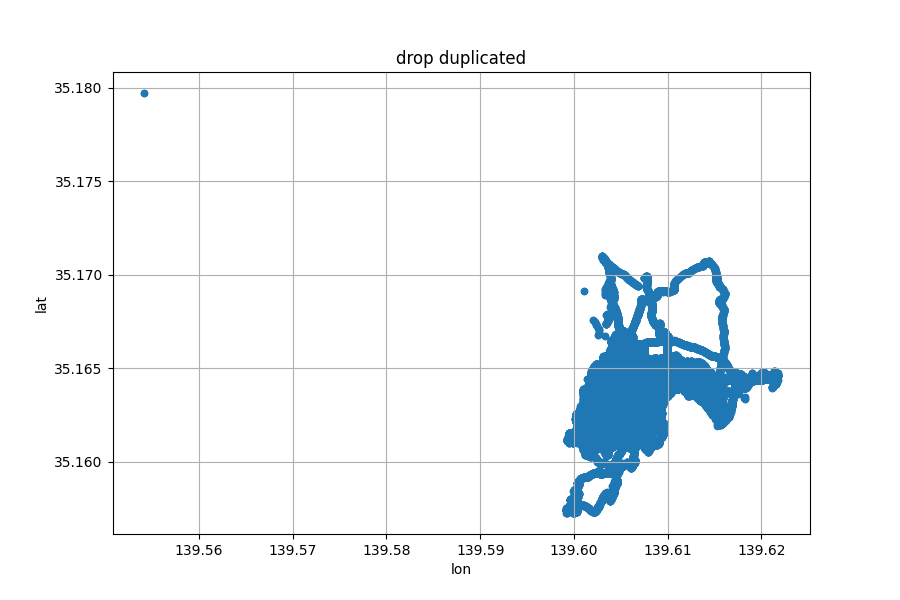
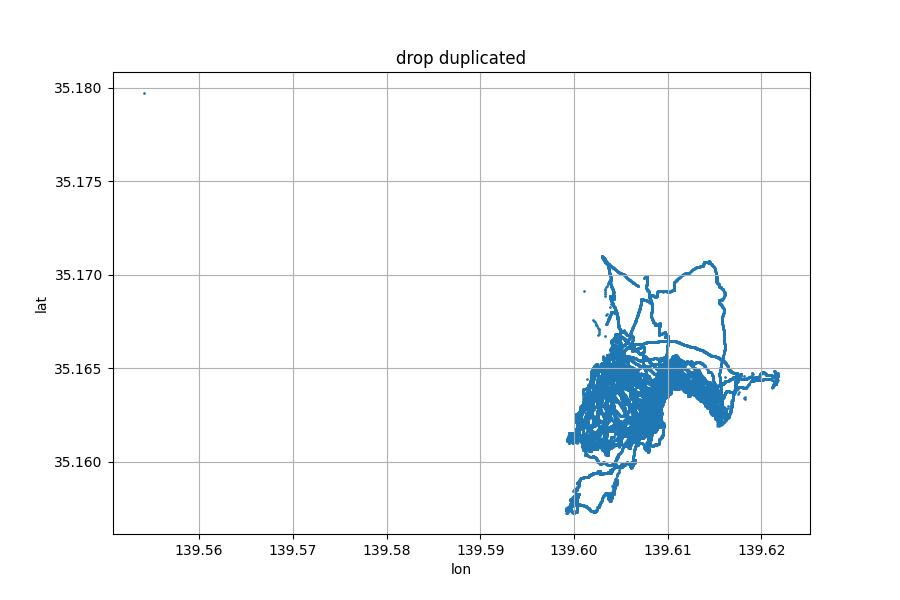
20220826

Changed region(s): [[0.6222, 0.42, 0.8711, 0.87], [0.6222, 0.63, 0.6844, 0.75], [0.1556, 0.15, 0.1867, 0.18]]

diff --git a/main.py b/main.py
@@ -11,6 +11,7 @@ __date__ = "2022/08/19"
 #
 # 標準ライブラリのインポート
 #
+import io
 import logging
 import math
 import os
@@ -98,6 +99,8 @@ try:
     import numpy as np
     import pandas as pd
     import matplotlib.pyplot as plt
+    from mpl_toolkits.mplot3d import Axes3D
+    from scipy.interpolate import RBFInterpolator
     from sklearn.neighbors import LocalOutlierFactor  # process_outlier()
     from sklearn.ensemble import IsolationForest  # process_outlier()
 except ImportError as e:
@@ -120,24 +123,43 @@ FIG_SIZE = (9, 6)
 
 class Stats:
     def __init__(self, df: pd.DataFrame) -> None:
+        self.mean_lat = df["lat"].mean()
         self.min_lat = df["lat"].min()
         self.max_lat = df["lat"].max()
         self.min_lon = df["lon"].min()
         self.max_lon = df["lon"].max()
-        self.max_depth = df["depth"].max()
+        #self.min_depth = df["depth"].min()
+        #self.max_depth = df["depth"].max()
+
+        # この場所で地球を水平(holizontal)に輪切りにしたときの半径(m)と円の長さ
+        h_r = EARTH_RADIUS * 1000 * math.cos(degree2radian(self.mean_lat))
+        h_circle = 2 * math.pi * h_r
+
+        # この円において弧の長さが1mになる角度、つまり経度の差
+        self.lon_unit = 360 / h_circle
+
+        # 地球を北極から南極に縦に輪切りにしたときの円周(m)
+        v_circle = 2 * math.pi * EARTH_RADIUS * 1000
+
+        # この円において弧の長さが1mになる角度、つまり経度の差
+        self.lat_unit = 360 / v_circle
 
         # 南北方向の距離(m)
         self.distance_south_north = 2 * math.pi * EARTH_RADIUS * 1000 * (self.max_lat - self.min_lat) / 360
         self.distance_south_north = math.floor(self.distance_south_north)
 
         # 東西方向の距離(m)
-        radius = EARTH_RADIUS * 1000 * math.cos(degree2radian(self.min_lat))
-        self.distance_west_east = 2 * math.pi * radius * (self.max_lon - self.min_lon) / 360
+        self.distance_west_east = h_circle * (self.max_lon - self.min_lon) / 360
         self.distance_west_east = math.floor(self.distance_west_east)
 
-        # グリッド単位
-        self.grid_lon = (self.max_lon - self.min_lon) / (self.distance_west_east / GRID_UNIT)
-        self.grid_lat = (self.max_lat - self.min_lat) / (self.distance_south_north / GRID_UNIT)
+    def __str__(self) -> str:
+        with io.StringIO() as s:
+            print("lat unit: {}".format(self.lat_unit), file=s)
+            print("lon unit: {}".format(self.lon_unit), file=s)
+            print("south-north distance (m): {}".format(self.distance_south_north), file=s)
+            print("west-east distance (m): {}".format(self.distance_west_east), file=s)
+            print("", file=s)
+            return s.getvalue()
 
 
 def degree2radian(degree: float) -> float:
@@ -150,6 +172,93 @@ def round_unit(x: float, unit: float) -> float:
 
 
 if __name__ == '__main__':
+
+    def rbf_example():
+        from scipy.stats.qmc import Halton
+        rng = np.random.default_rng()
+        xobs = 2*Halton(2, seed=rng).random(100) - 1
+        yobs = np.sum(xobs, axis=1)*np.exp(-6*np.sum(xobs**2, axis=1))
+        xgrid = np.mgrid[-1:1:50j, -1:1:50j]
+        xflat = xgrid.reshape(2, -1).T
+
+        print(xgrid)
+
+        yflat = RBFInterpolator(xobs, yobs)(xflat)
+
+        ygrid = yflat.reshape(50, 50)
+        fig, ax = plt.subplots()
+        ax.pcolormesh(*xgrid, ygrid, vmin=-0.25, vmax=0.25, shading='gouraud')
+        p = ax.scatter(*xobs.T, c=yobs, s=50, ec='k', vmin=-0.25, vmax=0.25)
+        fig.colorbar(p)
+        plt.savefig("3d.png")
+
+
+    def generate_test_grid(df:pd.DataFrame):
+        # テスト用座標
+        TEST_COORD_NW = (35.1636, 139.6082)
+        TEST_COORD_SE = (35.1622, 139.6099)
+
+        extracted = df.query("lat > {} and lat < {} and lon > {} and lon < {}".format(TEST_COORD_SE[0], TEST_COORD_NW[0], TEST_COORD_NW[1], TEST_COORD_SE[1]))
+        lat = extracted["lat"]
+        lat = (lat - lat.mean())/lat.std()
+        lon = extracted["lon"]
+        lon = (lon - lon.mean())/lon.std()
+        depth = extracted["depth"]
+        lat_lon = np.stack([lat, lon], -1)
+        rbf = RBFInterpolator(lat_lon, depth, kernel='thin_plate_spline', epsilon=2.0, neighbors=10)
+
+
+        # RBF補間を作成
+        # https://docs.scipy.org/doc/scipy/reference/generated/scipy.interpolate.RBFInterpolator.html#scipy.interpolate.RBFInterpolator
+        # rbf = RBFInterpolator(extracted[["lat", "lon"]], extracted["depth"], kernel='gaussian', epsilon=1.0, neighbors=1000)
+
+        """
+        linear : -r
+        thin_plate_spline : r**2 * log(r)
+        cubic : r**3
+        quintic : -r**5
+        multiquadric : -sqrt(1 + r**2)
+        inverse_multiquadric : 1/sqrt(1 + r**2)
+        inverse_quadratic : 1/(1 + r**2)
+        gaussian : exp(-r**2)
+
+        Default is 'thin_plate_spline'
+        """
+
+        # x, yの各軸に関して、等間隔の配列を作成する
+        xi = np.linspace(lon.min(), lon.max(), 100)
+        yi = np.linspace(lat.min(), lat.max(), 100)
+
+        # メッシュグリッドに変換する
+        xi, yi = np.meshgrid(xi, yi)
+        xi_yi = np.stack([xi.ravel(), yi.ravel()], -1)
+
+        # xi, yi の位置の zi を計算する
+        zi = rbf(xi_yi)
+
+        #==============================================================================
+        # 3 次元グラフ
+        #==============================================================================
+        fig = plt.figure(figsize=(18, 7), dpi=200) # 画像を作成する
+        el = 55                                    # 視点高さを設定する
+
+        ax = fig.add_subplot(231, projection='3d') # 2 × 3 の 1 枚目に描画する
+
+        # 曲面のプロット
+        ax.plot_surface(xi, yi, zi)                      # サーフェスの描画
+        ax.view_init(elev=el, azim=10)                   # ビューの設定
+        ax.set_title('elev = ' + str(el) + ', deg = 10') # タイトルの設定
+        ax.set_xlabel('xi')                              # 軸ラベルの設定
+        ax.set_ylabel('yi')                              # 軸ラベルの設定
+        ax.set_zlabel('zi')                              # 軸ラベルの設定
+
+        plt.savefig("3d.png")
+
+
+
+
+
+
 
     def read_file(filename, callback):
         try:
@@ -181,6 +290,16 @@ if __name__ == '__main__':
         print("")
 
 
+    def save_scatter(df: pd.DataFrame, title="", filename="") -> None:
+        if not filename:
+            return
+        df_plt = df.plot.scatter(x="lon", y="lat", title=title, grid=True, figsize=FIG_SIZE, s=0.5)
+        df_plt.set_xlabel("lon")
+        df_plt.set_ylabel("lat")
+        plt.savefig(os.path.join(img_dir, filename))
+        plt.clf()
+
+
     def process_duplicated(df: pd.DataFrame):
         dfx = df[["lat", "lon", "depth"]]
 
@@ -190,12 +309,12 @@ if __name__ == '__main__':
         print("")
 
         dfx_duplicated = dfx.groupby(["lat", "lon"])["depth"].mean().reset_index()
-        print("uplicated coordinate")
+        print("duplicated coordinate")
         print(dfx_duplicated.describe().to_markdown())
         print("")
 
         df = pd.concat([dfx_uniq, dfx_duplicated]).reset_index(drop=True)
-        print("combilned data frame")
+        print("combined data frame")
         print(df.describe().to_markdown())
         print("")
 
@@ -225,17 +344,23 @@ if __name__ == '__main__':
         # return isolation_forest()
         return local_outlier_factor()
 
-    def norm_coord(df: pd.DataFrame):
-        # 全行をforで取り出すので処理が重い
-        for _, row in df.iterrows():
-            row["lat"] = row["lat"] - 35.0
-            row["lon"] = row["lon"] - 139.0
+    def align_coord(df: pd.DataFrame) -> pd.DataFrame:
+        # 1メートルの間隔で各座標を吸着させる
+        stats = Stats(df)
+        lat_unit = stats.lat_unit
+        lon_unit = stats.lon_unit
+
+        f_lat = lambda x: round(x / lat_unit) * lat_unit
+        f_lon = lambda x: round(x / lon_unit) * lon_unit
+
+        df["lat"] = df["lat"].map(f_lat)
+        df["lon"] = df["lon"].map(f_lon)
 
         return df
 
+
     def main():
         """メイン関数
-
         Returns:
         int -- 正常終了は0、異常時はそれ以外を返却
         """
@@ -247,64 +372,38 @@ if __name__ == '__main__':
         # CSVファイルには列名がないので、データフレームに列名を定義
         df.columns = ["lat", "lon", "depth", "time"]
 
-        # 時刻の列はいらない
-        df = df[["lat", "lon", "depth"]]
+        # 時刻の列は不要なので削除する
+        del df["time"]
 
         # データのサマリを表示
+        print("original data")
         print_summary(df)
 
         # オリジナルデータの散布図を保存
-        df_plt = df.plot.scatter(x="lon", y="lat", title="original data", grid=True, figsize=FIG_SIZE)
-        df_plt.set_xlabel("lon")
-        df_plt.set_ylabel("lat")
-        plt.savefig(os.path.join(img_dir, "scatter_01.png"))
-        plt.clf()
+        save_scatter(df, title="original data", filename="scatter_01.png")
+
+        # 座標を1m単位に吸着させる
+        df = align_coord(df)
+        print("align coord")
+        print(df.describe().to_markdown())
+        print("")
 
         # 重複した座標のデータを削除する
         df = process_duplicated(df)
 
-        # 重複を削除した散布図を保存
-        df_plt = df.plot.scatter(x="lon", y="lat", title="drop duplicated", grid=True, figsize=FIG_SIZE)
-        df_plt.set_xlabel("lon")
-        df_plt.set_ylabel("lat")
-        plt.savefig(os.path.join(img_dir, "scatter_02.png"))
-        plt.clf()
+        # 重複を削除した状態の散布図を保存
+        save_scatter(df, title="drop duplicated", filename="scatter_02.png")
 
         # 外れ値を除く処理を施す
         pred = process_outlier(df)
 
         # 外れ値データの散布図を保存
         outlier = df.iloc[np.where(pred < 0)]
-        print("外れ値")
-        print_summary(outlier)
-
-        df_plt = outlier.plot.scatter(x="lon", y="lat", title="outlier", grid=True, figsize=FIG_SIZE)
-        df_plt.set_xlabel("lon")
-        df_plt.set_ylabel("lat")
-        plt.savefig(os.path.join(img_dir, "scatter_03.png"))
-        plt.clf()
+        save_scatter(outlier, title="outlier", filename="scatter_03.png")
 
         # dfを外れ値データを除いたデータに置き換える
         df = df.iloc[np.where(pred > 0)]
-        print("外れ値を除外")
-        print_summary(df)
-
-        # 外れ値データを除いた散布図を保存
-        df_plt = df.plot.scatter(x="lon", y="lat", title="drop outlier", grid=True, figsize=FIG_SIZE)
-        df_plt.set_xlabel("lon")
-        df_plt.set_ylabel("lat")
-        plt.savefig(os.path.join(img_dir, "scatter_04.png"))
-        plt.clf()
-
-        # 統計量から東西距離、南北距離を割り出す
-        stats = Stats(df)
-        print("south-north distance (m): {}".format(stats.distance_south_north))
-        print("west-east distance (m): {}".format(stats.distance_west_east))
-        print("")
-
-        # 座標を正規化する
-        #df = norm_coord(df)
-        # print_summary(df)
+        save_scatter(df, title="drop outlier", filename="scatter_04.png")
 
         return 0
 
